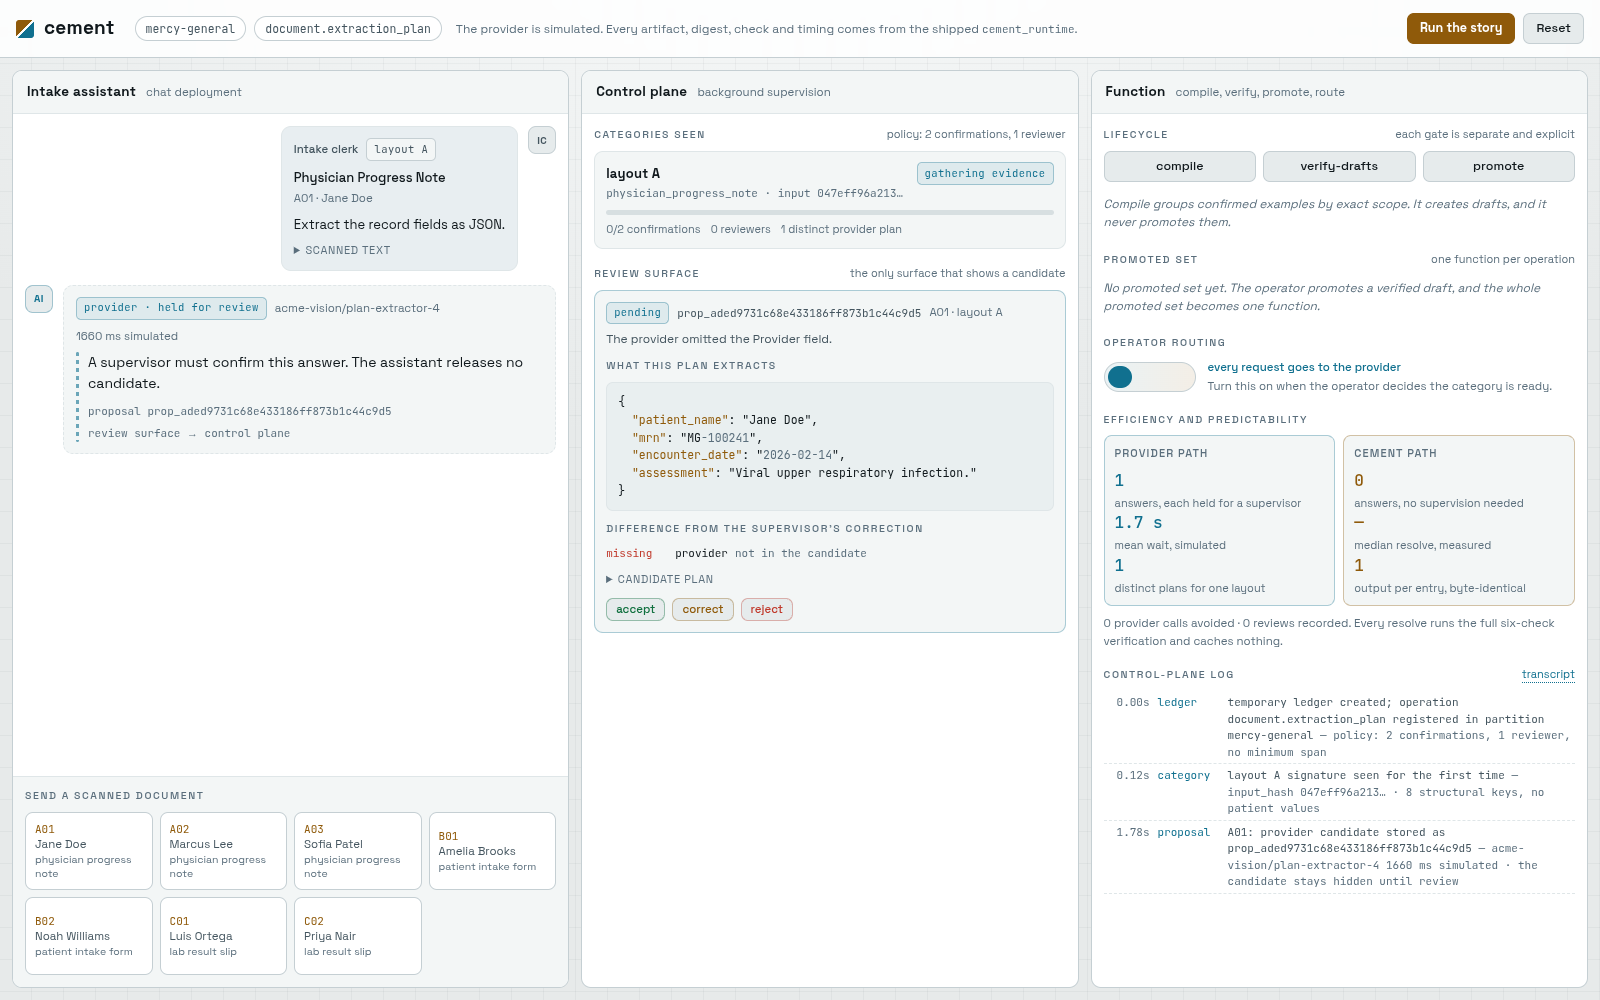
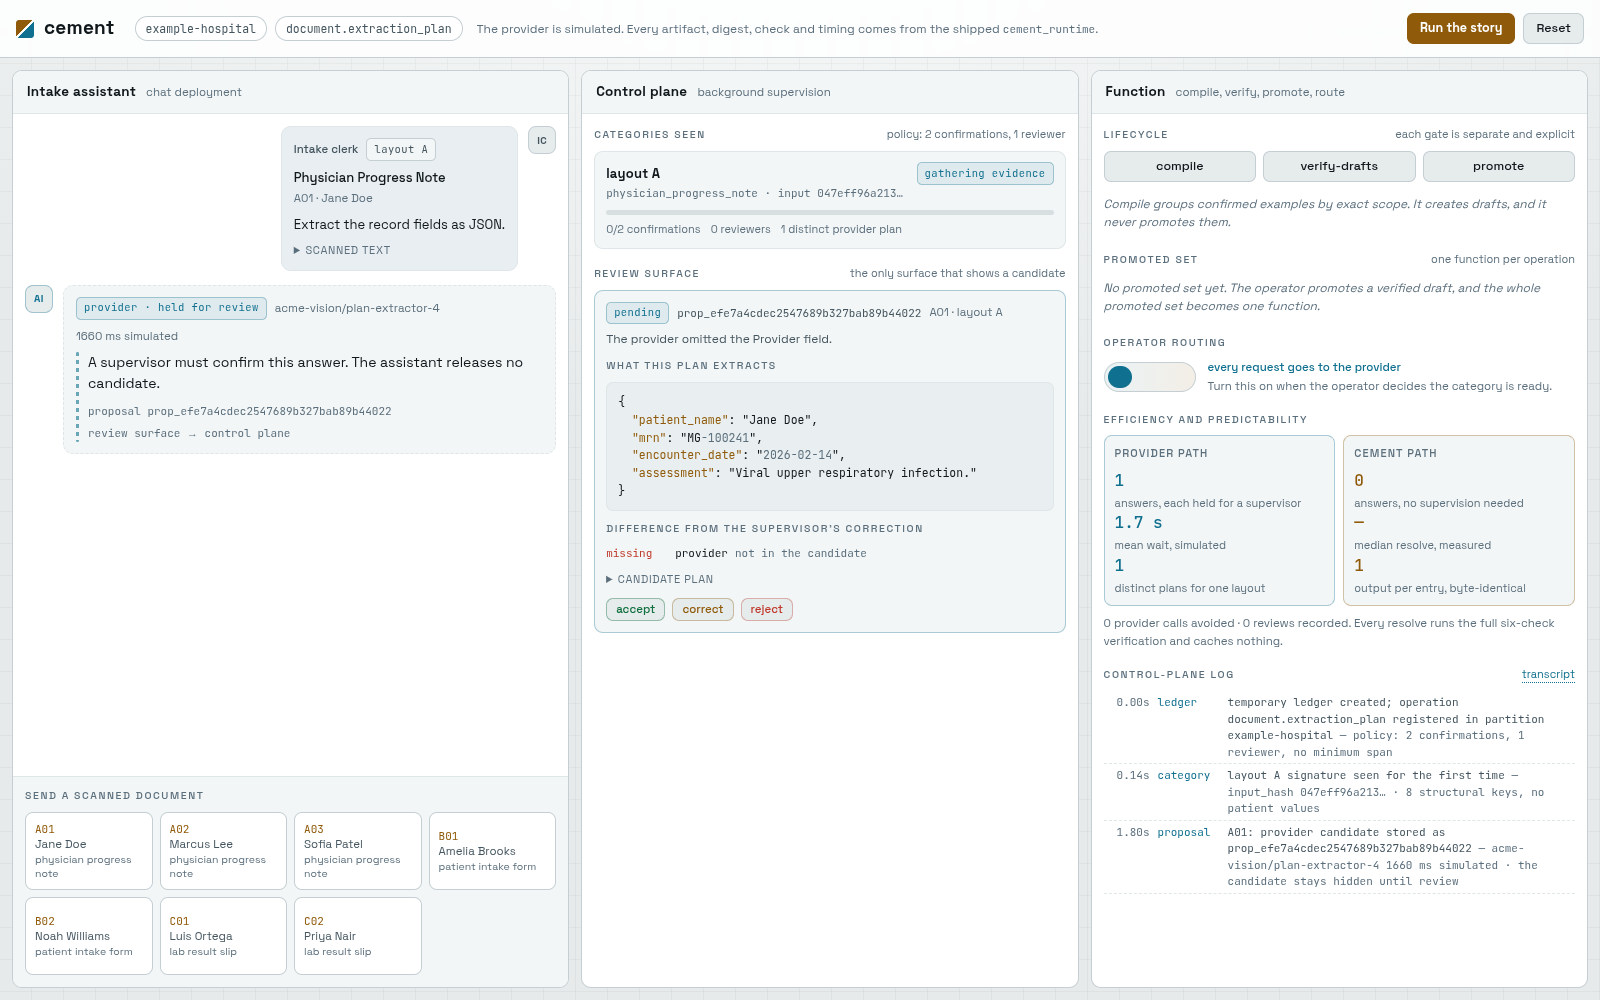
example+prototype (ITERATE): owner ruled mercy-general out → partition example-hospital
11 references in 8 files collapse to one token: prototype (`demo.py` PARTITION,
`index.html` chip), example (`run_demo.py`, `plan_adapter.py` x2, README x2),
tests (`test_hospital_ocr_example.py:358`). No hash or digest is pinned against
the old string, so the rename is a pure string move.

The bundle carries the partition, and the new name is 3 bytes longer: the example
bundle goes 3341 -> 3344 bytes and the README's pinned transcript is re-pinned
(`test_demo_output_matches_the_pinned_readme_transcript` compares masked demo
output against that block). The prototype's own bundle goes 1786 -> 1789 bytes,
which the recaptured proof shows.

D25 fallout, worth holding: the grader grades every human-facing paragraph that
differs from baseline 36f7890, and a markdown bullet list is ONE paragraph, so
editing two bullets pulled both lists in whole and surfaced 6 unclassified
openers -- corpus, demo, example-hospital, partition, promoter, reviewer. Each is
the noun-phrase opener of a labelled bullet, so each joins `descriptive` and
`mercy-general` leaves; `demo` carries a comment like `set`'s, since the prose
always means "Demo compile policy". No sentence needed a rewrite: every newly
graded one already held <=20/<=25 words.

proof/ recaptured against a restarted server -- the running process held the old
PARTITION constant in memory while serving the new CSS from disk.

Gate, required because this commit touches `tests/` and `examples/` and so enters
[…]

diff --git a/prototype/webui-demo/static/index.html b/prototype/webui-demo/static/index.html
@@ -14,7 +14,7 @@
     <span class="wordmark">cement</span>
   </div>
   <div class="deployment">
-    <span class="chip" id="chip-partition">mercy-general</span>
+    <span class="chip" id="chip-partition">example-hospital</span>
     <span class="chip" id="chip-operation">document.extraction_plan</span>
     <span class="note">The provider is simulated. Every artifact, digest, check and
       timing comes from the shipped <code>cement_runtime</code>.</span>

diff --git a/tests/test_cli_removal_battery.py b/tests/test_cli_removal_battery.py
@@ -3121,10 +3121,14 @@ class RemovalObligationBatteryTests(unittest.TestCase):
             "compilation",
             "confirmed",
             "conflicts",
+            "corpus",
             "counterexamples",
             "current",
+            # Always the noun phrase "Demo compile policy", never the imperative.
+            "demo",
             "distinct",
             "every",
+            "example-hospital",
             "fallbackfailed",
             "for",
             "hospital",
@@ -3137,15 +3141,16 @@ class RemovalObligationBatteryTests(unittest.TestCase):
             "linux",
             "llm",
             "meaning",
-            "mercy-general",
             "no",
             "ocr",
             "on",
             "only",
             "operation",
+            "partition",
             "patient",
             "planadapter",
             "production",
+            "promoter",
             "promotion",
             "resolveoffline",
             "rundemo",
@@ -3153,6 +3158,7 @@ class RemovalObligationBatteryTests(unittest.TestCase):
             "rejected",
             "request",
             "resolved",
+            "reviewer",
             "reviewrequired",
             "schema",
             # Always a noun phrase in this prose -- "Set promotion", "Set verification" --

diff --git a/examples/hospital_ocr/plan_adapter.py b/examples/hospital_ocr/plan_adapter.py
@@ -153,7 +153,7 @@ def _self_check() -> None:
     signature = pipeline.layout_signature(pipeline.ocr(document))
     known = proposer.propose(
         CandidateRequest(
-            partition="mercy-general",
+            partition="example-hospital",
             operation="document.extraction_plan",
             operation_revision=1,
             request_id="self-check-known-layout",
@@ -167,7 +167,7 @@ def _self_check() -> None:
 
     unknown = proposer.propose(
         CandidateRequest(
-            partition="mercy-general",
+            partition="example-hospital",
             operation="document.extraction_plan",
             operation_revision=1,
             request_id="self-check-unknown-layout",

diff --git a/tests/test_hospital_ocr_example.py b/tests/test_hospital_ocr_example.py
@@ -355,7 +355,7 @@ class PlanAdapterTests(unittest.TestCase):
         request_id: str = "hospital-ocr-test",
     ) -> CandidateRequest:
         return CandidateRequest(
-            partition="mercy-general",
+            partition="example-hospital",
             operation="document.extraction_plan",
             operation_revision=1,
             request_id=request_id,

diff --git a/prototype/webui-demo/demo.py b/prototype/webui-demo/demo.py
@@ -52,7 +52,7 @@ if str(EXAMPLE_DIR) not in sys.path:
     sys.path.insert(0, str(EXAMPLE_DIR))
 import pipeline  # noqa: E402
 
-PARTITION = "mercy-general"
+PARTITION = "example-hospital"
 OPERATION = "document.extraction_plan"
 REVIEWER = "records-supervisor"
 PROMOTER = "informatics-lead"

diff --git a/examples/hospital_ocr/run_demo.py b/examples/hospital_ocr/run_demo.py
@@ -35,7 +35,7 @@ import pipeline
 from plan_adapter import PlanProposer
 
 
-PARTITION = "mercy-general"
+PARTITION = "example-hospital"
 OPERATION = "document.extraction_plan"
 DOCUMENTS = Path(__file__).with_name("documents")
 DEMO_POLICY = CompilePolicy(

diff --git a/examples/hospital_ocr/README.md b/examples/hospital_ocr/README.md
@@ -39,7 +39,7 @@ exported bundle + ocr_text -> resolve_offline(...) -> confirmed plan or miss
 
 ### Scope and policy
 
-- Partition: `mercy-general` - learning remains isolated to this hospital.
+- Partition: `example-hospital` - learning remains isolated to this hospital.
 - Operation: `document.extraction_plan` - all layouts use one operation; each distinct signature is a separate canonical input and exact scope.
 - Demo compile policy: `CompilePolicy(min_confirmations=2, min_reviewers=1, min_span_seconds=0)`.
 - Reviewer: `records-supervisor`.
@@ -196,7 +196,7 @@ Gate reasons: support 1 is below required 2
 === Act 5: the verified set exports as portable bytes ===
 Exported set: 2 verified entries, promoted before Acts 2 and 3 resolved against them.
 Verified function hash: <function-hash>
-Exported bundle: 3341 bytes carrying no ledger.
+Exported bundle: 3344 bytes carrying no ledger.
 
 === Audit event trace ===
 01. operation.registered
@@ -234,7 +234,7 @@ All checks passed.
 - Canonicalize before learning. The exact recurring input is an ordered layout structure with no patient values. Structural position determines the signature, not the presence of a filled field. Distinct patients can therefore share one scope safely.
 - Keep decimal quantities as strings. `cement-json-v1` rejects decimal and exponent numbers. Layout C marks `potassium` and `creatinine` as `decimal_string` and extracts values such as `"4.2"` and `"0.9"`.
 - Treat layout drift as an explicit edge case. A changed layout is a new canonical input, enters supervised fallback, and solidifies through the same lifecycle. Act 4 exposes the recurrence gate as `support 1 is below required 2` rather than applying an old template silently.
-- Isolate learning by partition. `mercy-general` scopes this evidence and its promoted artifacts to one hospital.
+- Isolate learning by partition. `example-hospital` scopes this evidence and its promoted artifacts to one hospital.
 - Keep demonstration policy visibly relaxed. Production defaults require more confirmations, more reviewers, and a real observation span.
 - Export the verified function to leave the ledger behind. Act 5 exports the promoted set as one self-verifying bundle. Act 6 resolves a document from that bundle with no database, adapter, or LLM. The bundle carries a new hash on every run, because each entry seals its own run-specific evidence.
 
